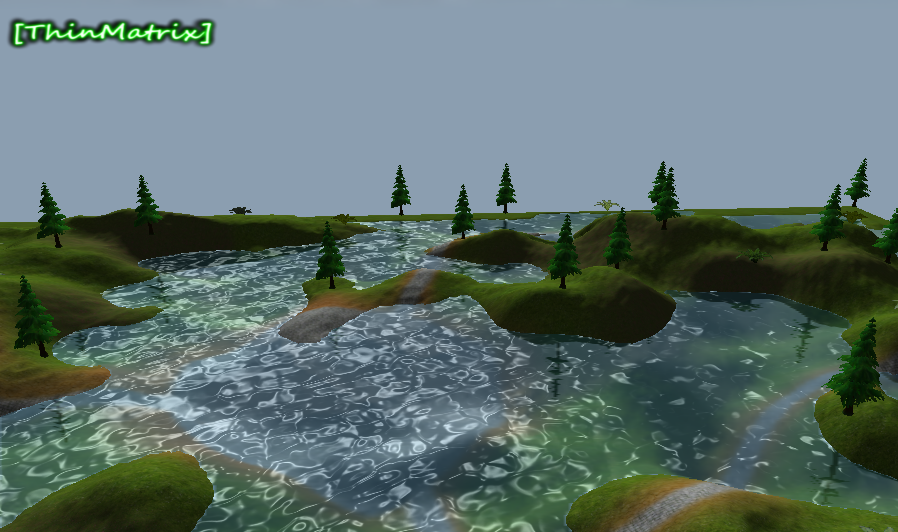
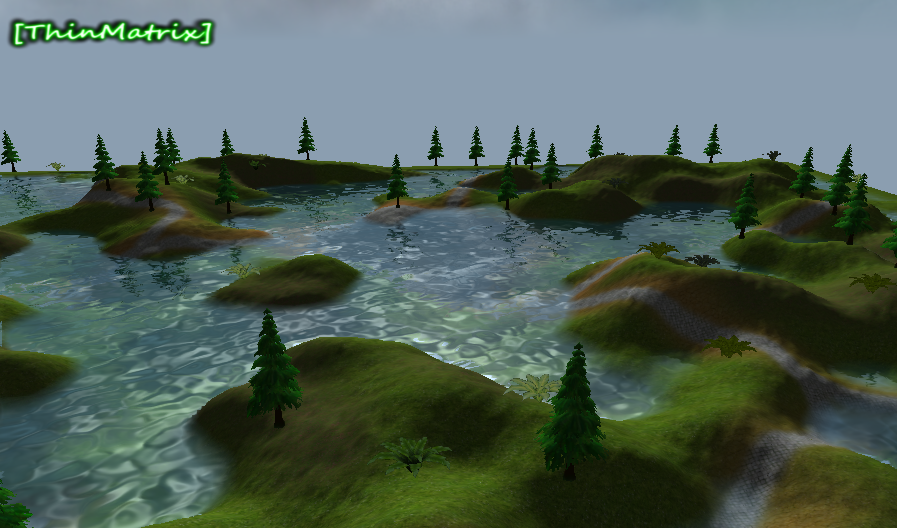
Finish water tutorial 8

diff --git a/src/engine_tester/game_engine.cpp b/src/engine_tester/game_engine.cpp
@@ -107,12 +107,12 @@ void GameEngine::doMainLoop() {
         float distance = 2.0f * (camera_.getPosition().y - waterHeight);
         camera_.getPosition().y -= distance;
         camera_.invertPitch();
-        renderer_.renderScene(entities_, terrains_.front(), lights_, camera_, {0.0f, 1.0f, 0.0f, -waterHeight});
+        renderer_.renderScene(entities_, terrains_.front(), lights_, camera_, {0.0f, 1.0f, 0.0f, -waterHeight + 1.0f});
         camera_.getPosition().y += distance;
         camera_.invertPitch();
 
         waterFbos_.bindRefractionFrameBuffer();
-        renderer_.renderScene(entities_, terrains_.front(), lights_, camera_, {0.0f, -1.0f, 0.0f, waterHeight});
+        renderer_.renderScene(entities_, terrains_.front(), lights_, camera_, {0.0f, -1.0f, 0.0f, waterHeight + 1.0f});
 
         glDisable(GL_CLIP_DISTANCE0);
 

diff --git a/src/water/water_shader.cpp b/src/water/water_shader.cpp
@@ -24,6 +24,7 @@ void WaterShader::getAllUniformLocations() {
     refractionTextureLocation_ = getUniformLocation("refractionTexture");
     dudvMapLocation_ = getUniformLocation("dudvMap");
     normalMapLocation_ = getUniformLocation("normalMap");
+    depthMapLocation_ = getUniformLocation("depthMap");
     moveFactorLocation_ = getUniformLocation("moveFactor");
     cameraPositionLocation_ = getUniformLocation("cameraPosition");
     lightPositionLocation_ = getUniformLocation("lightPosition");
@@ -52,6 +53,7 @@ void WaterShader::connectTextureUnits() const {
     loadInteger(refractionTextureLocation_, 1);
     loadInteger(dudvMapLocation_, 2);
     loadInteger(normalMapLocation_, 3);
+    loadInteger(depthMapLocation_, 4);
 }
 
 void WaterShader::loadLight(Light const& sun) const {

diff --git a/src/water/water_renderer.cpp b/src/water/water_renderer.cpp
@@ -59,9 +59,14 @@ void WaterRenderer::prepareRender(Camera& camera, Light const& sun) {
     glBindTexture(GL_TEXTURE_2D, dudvTextureId_);
     glActiveTexture(GL_TEXTURE3);
     glBindTexture(GL_TEXTURE_2D, normalMapTextureId_);
+    glActiveTexture(GL_TEXTURE4);
+    glBindTexture(GL_TEXTURE_2D, fbos_.getRefractionDepthTexture());
+    glEnable(GL_BLEND);
+    glBlendFunc(GL_SRC_ALPHA, GL_ONE_MINUS_SRC_ALPHA);
 }
 
 void WaterRenderer::unbind() const {
+    glDisable(GL_BLEND);
     glDisableVertexAttribArray(0);
     glBindVertexArray(0);
     shader_.stop();

diff --git a/src/water/water_frame_buffers.cpp b/src/water/water_frame_buffers.cpp
@@ -3,8 +3,8 @@
 
 
 namespace {
-    constexpr int REFLECTION_WIDTH = 320, REFLECTION_HEIGHT = 1280;
-    constexpr int REFRACTION_WIDTH = 180, REFRACTION_HEIGHT = 720;
+    constexpr int REFLECTION_WIDTH = 900, REFLECTION_HEIGHT = 675;
+    constexpr int REFRACTION_WIDTH = 900, REFRACTION_HEIGHT = 675;
 }
 
 WaterFrameBuffers::WaterFrameBuffers() {

diff --git a/src/water/water_shader.hpp b/src/water/water_shader.hpp
@@ -26,6 +26,7 @@ private:
     GLint refractionTextureLocation_;
     GLint dudvMapLocation_;
     GLint normalMapLocation_;
+    GLint depthMapLocation_;
     GLint moveFactorLocation_;
     GLint cameraPositionLocation_;
     GLint lightPositionLocation_;
